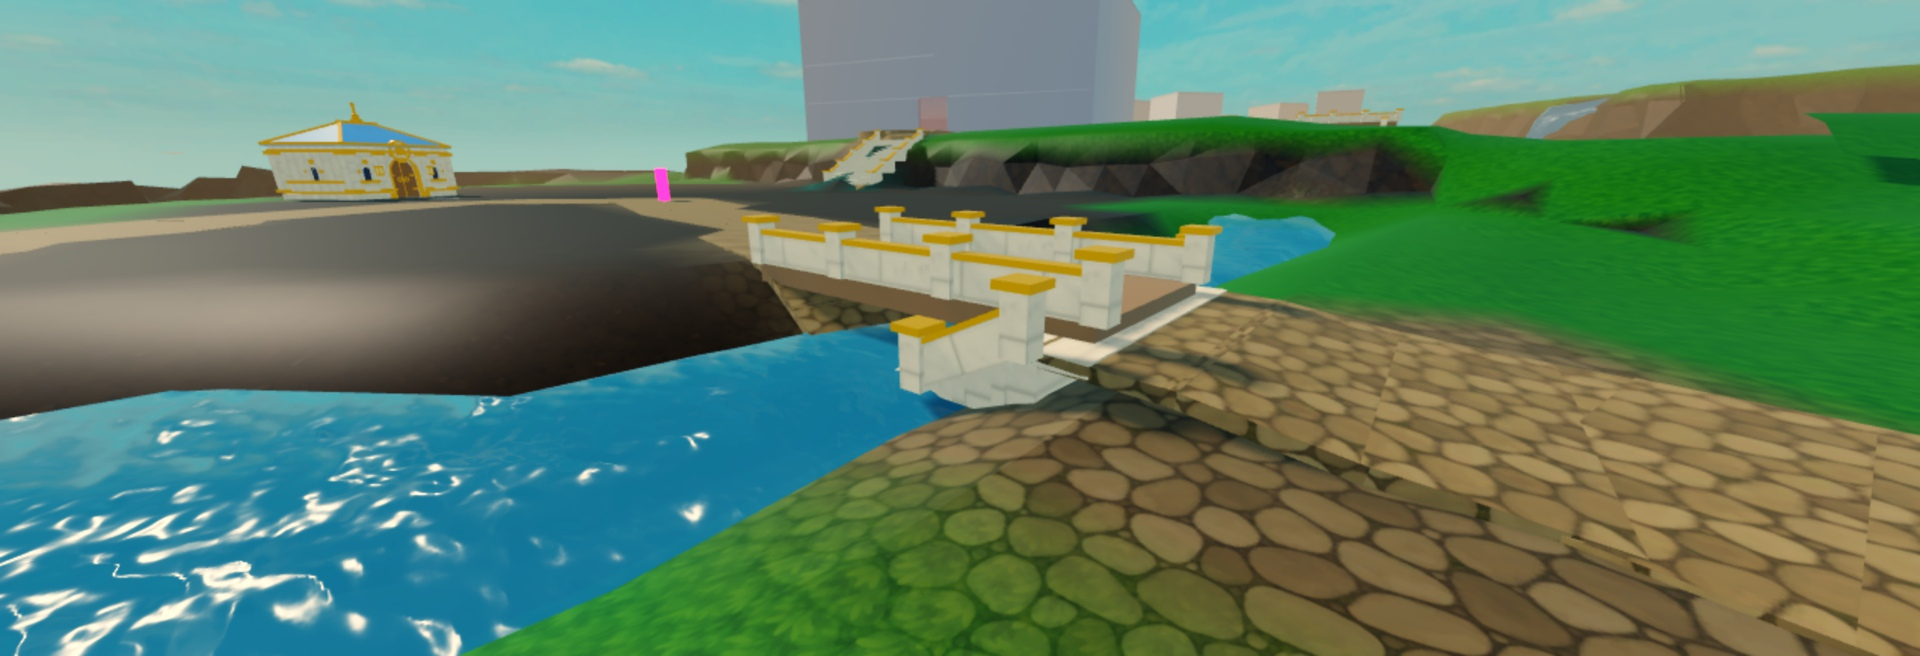
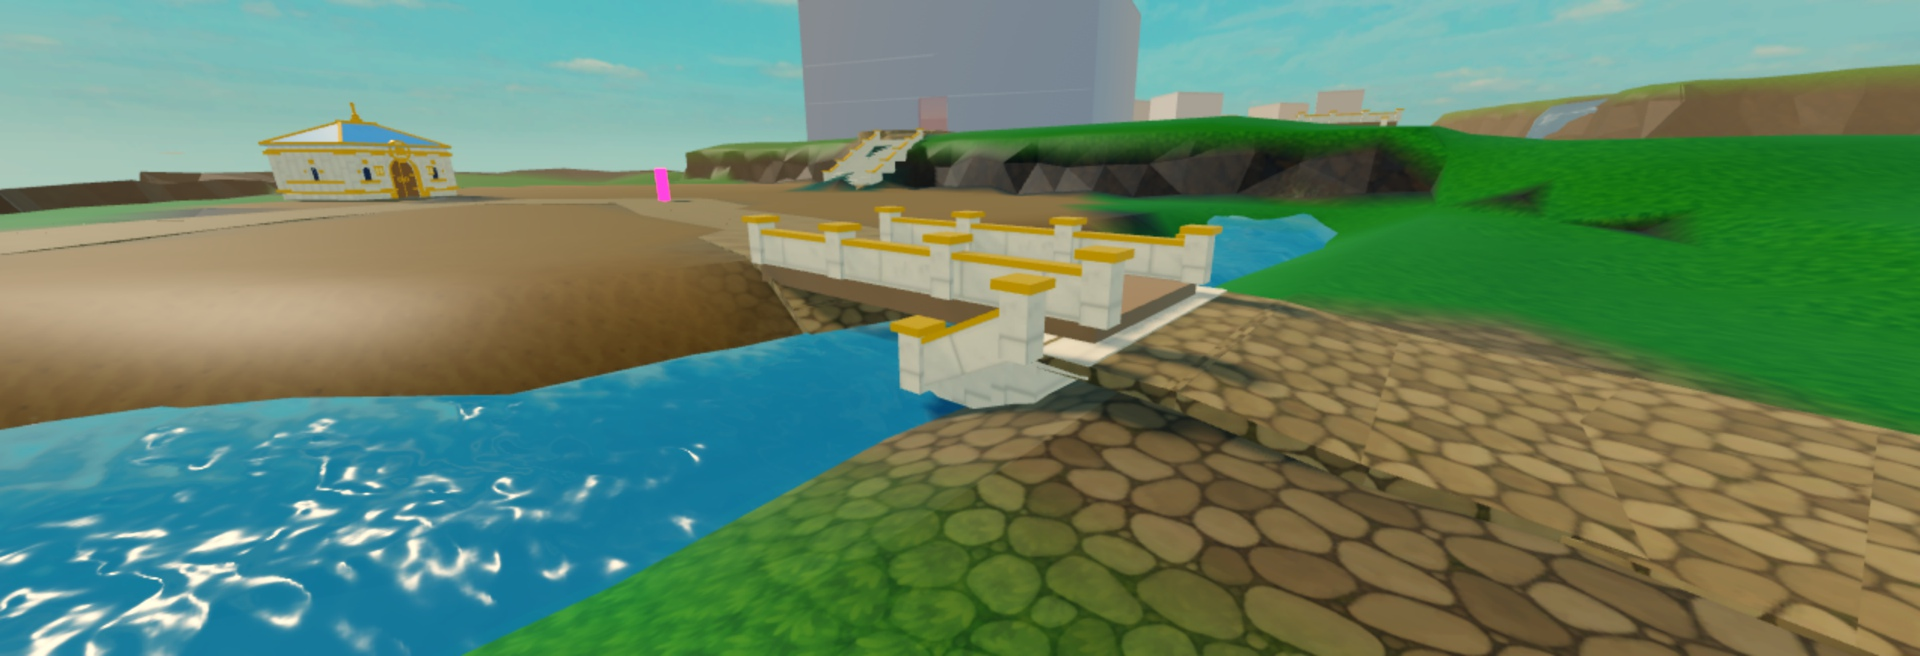
빛 광장 원판 아래 지형 1칸 낮춤·훈련장 땅 모래

diff --git a/tools/halo_blockout.py b/tools/halo_blockout.py
@@ -35,8 +35,10 @@ SLOPES = {  # y -> y_to along this line (stage-1 coordinates; main() grows them 
     "garden_homes": ((-96, -612), (-170, -672)),
     "cliff_homes": ((96, -540), (166, -630)),
 }
-DIST_MAT = {"training": "dirt", "arrival": "grass"}
+DIST_MAT = {"training": "sand", "arrival": "grass"}  # 2차 10/11 검수: training was dirt (GE_Ground reads near black in C2c)
 PAVED_R = dict(fountain=40, spawn=14)  # paved circle radii: round the plan's fountain pool and the spawn (0, -420)
+PAVED_SINK = 1  # 2차 10/11 검수: the Terrain under the plaza disc parts sits 1 lower (it poked through the 0.5 disc); the disc
+# height stays (tools/skeleton_ground.py adds D.plaza_sink back inside the discs)
 BEACH_Z, BEACH_W = -400, 4  # sand on the north shore (z > -400) up to 4 cells from the sea
 CLIFF_Z = -760  # rock lip on the south shore
 SEA_R = 4  # sea ring width in cells (16 studs) round the coast (2차 10/11: was 5; the rim beyond it is RIM_W cells)
@@ -341,6 +343,8 @@ def main():
                 x, z = cxz(r, c)
                 if math.hypot(x - px, z - pz) <= pr and MAT[r][c] not in ("sea", "water", "stair"):
                     MAT[r][c] = "road1"
+                    if H[r][c] is not None:
+                        H[r][c] -= PAVED_SINK
     # shore: distance to the sea in cells (4-neighbour BFS)
     DS = [[None] * cols for _ in range(rows)]
     q = deque()

diff --git a/tools/skeleton_ground.py b/tools/skeleton_ground.py
@@ -75,6 +75,7 @@ def lua_data():
         " cap=%d," % PART_CAP,
         " fountain={x=%s,z=%s,r=%s}," % (fm(FOUNTAIN["at"][0] + OX), fm(FOUNTAIN["at"][1] + OZ), fm(PLAZA_R)),
         " spawn={x=%s,z=%s,r=%s}," % (fm(SPAWN_AT[0] + OX), fm(SPAWN_AT[1] + OZ), fm(SPAWN_R)),
+        " plaza_sink=1,",  # halo_blockout.py PAVED_SINK: the Terrain under the plaza discs is 1 lower, the parts keep their height
         " passage={x0=%s,x1=%s,z0=%s,z1=%s}," % (fm(PASSAGE[0] + OX), fm(PASSAGE[1] + OX), fm(PASSAGE[2] + OZ), fm(PASSAGE[3] + OZ)),
         " yards={%s}," % yards,
         " roads={",
@@ -141,7 +142,13 @@ rp.FilterDescendantsInstances = { workspace.Terrain }
 rp.IgnoreWater = true
 local function G(x, z, quiet)
 	local hit = workspace:Raycast(Vector3.new(x, 200, z), Vector3.new(0, -400, 0), rp)
-	if hit then return hit.Position.Y end
+	if hit then
+		-- inside a plaza disc the Terrain is plaza_sink lower (halo_blockout PAVED_SINK): measure as if it were not
+		for _, c in { D.fountain, D.spawn } do
+			if (x - c.x) ^ 2 + (z - c.z) ^ 2 <= c.r * c.r then return hit.Position.Y + (D.plaza_sink or 0) end
+		end
+		return hit.Position.Y
+	end
 	if not quiet then N.nohit += 1 end
 	return nil
 end
